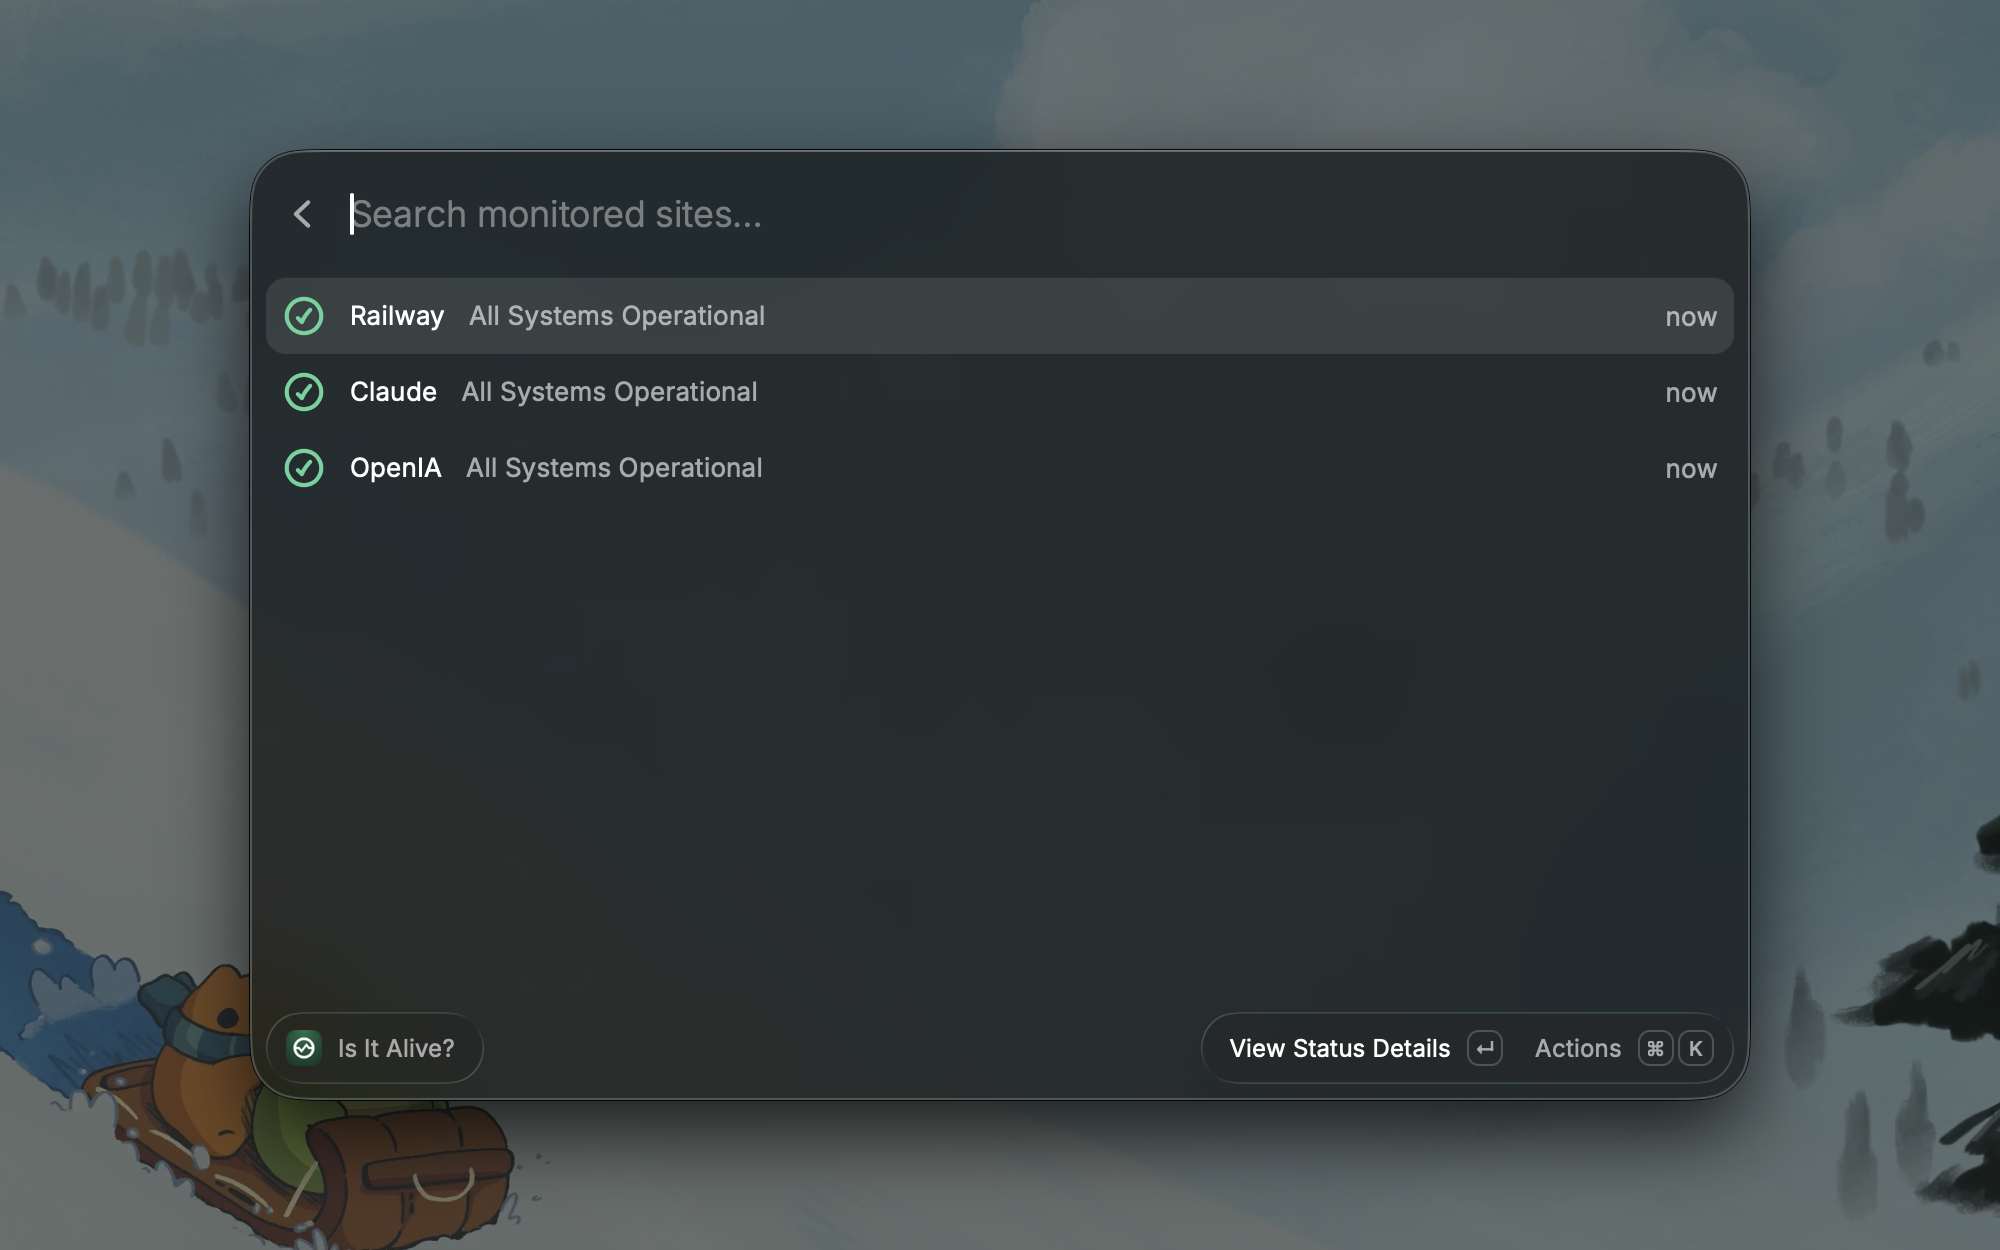
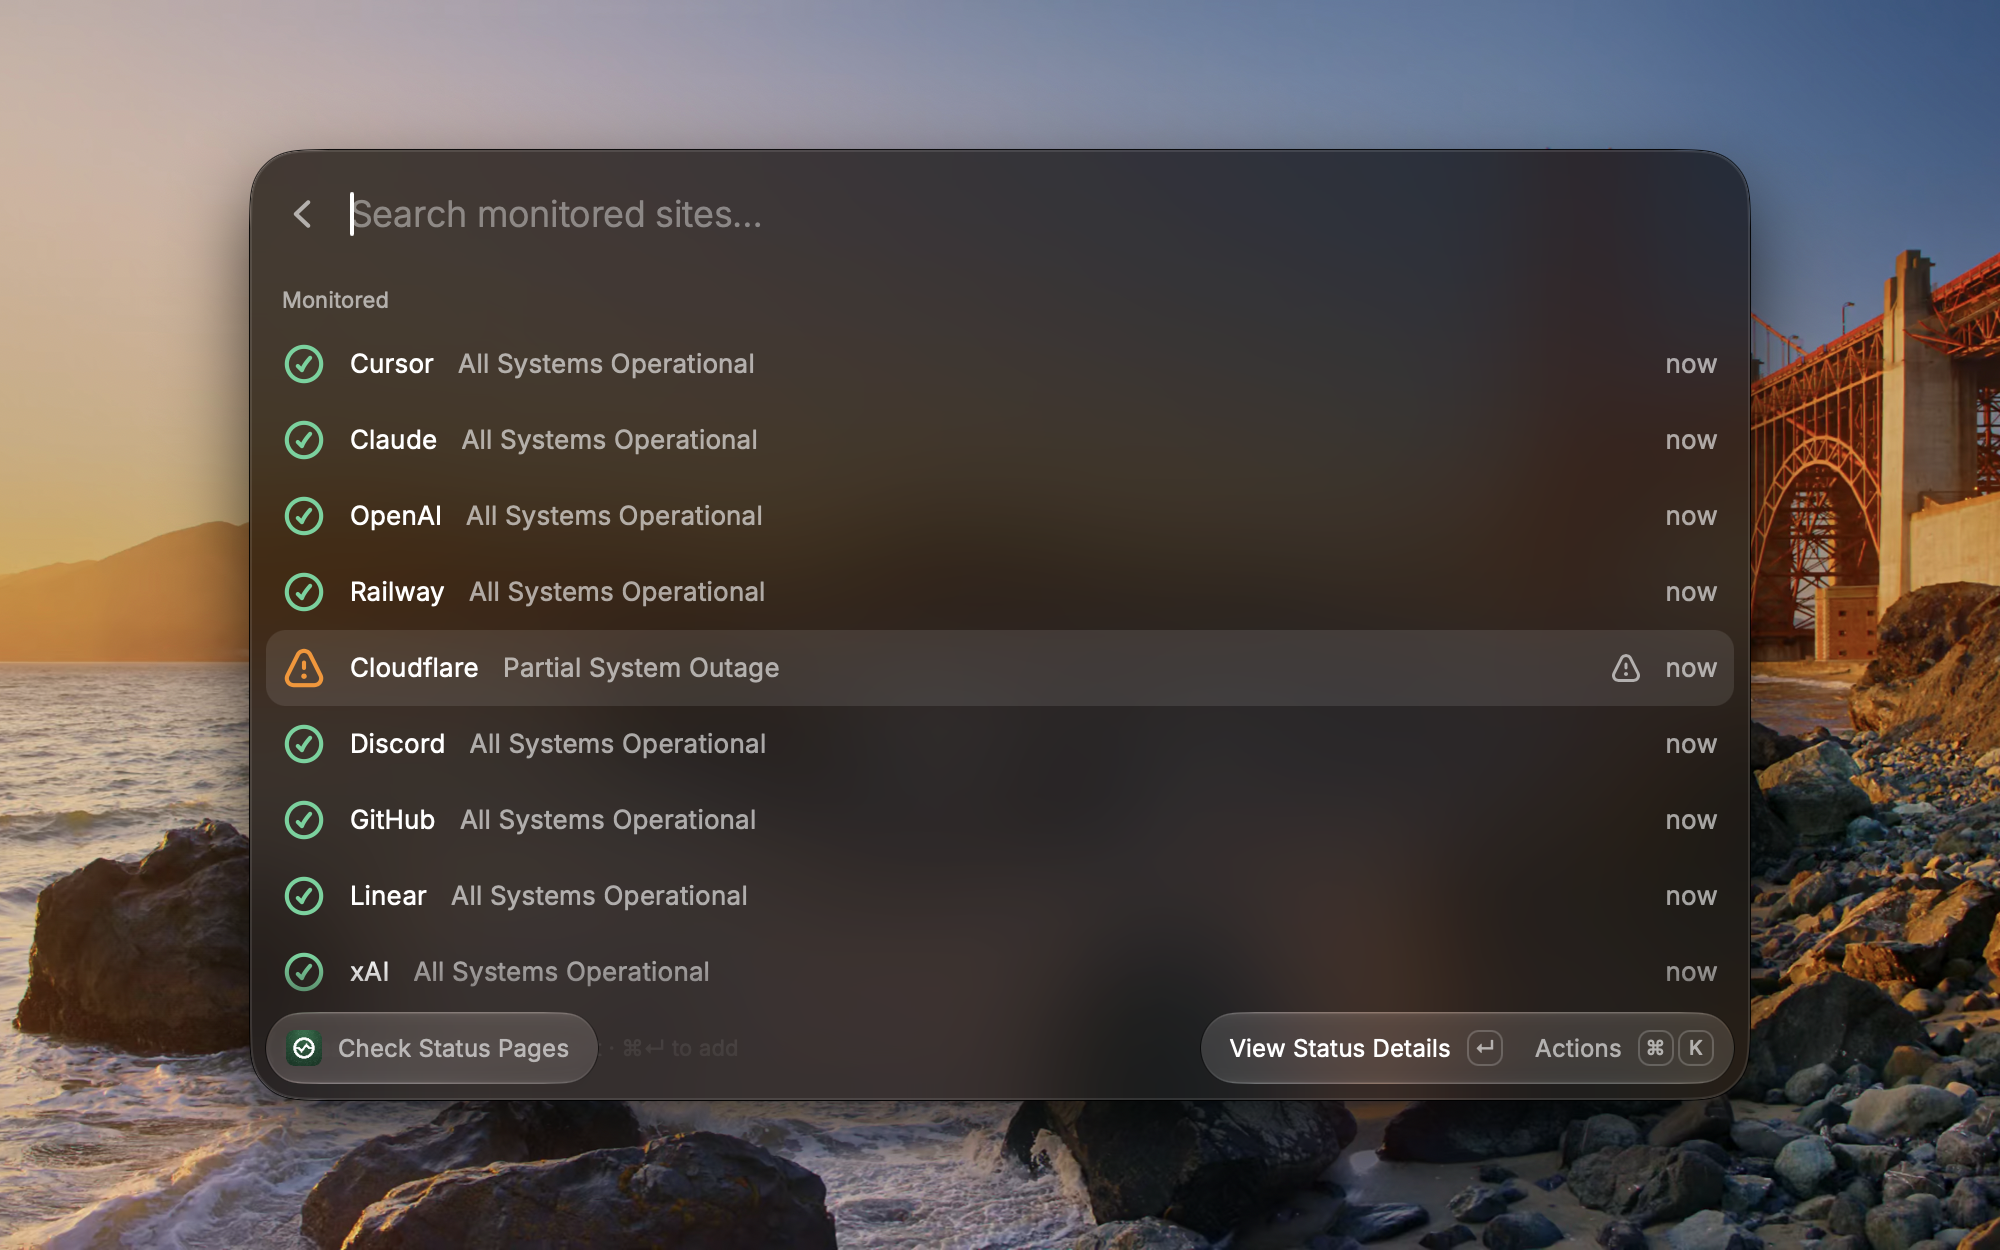
fix: end day spans before midnight and update the Store screenshots
- Treat the end of a day span as exclusive. An outage that ends at local midnight no longer marks the next day.
- Recapture the Store screenshots with one background.
- Point the README images back to metadata/ and remove the media/ copies.

diff --git a/tests/day-history.test.ts b/tests/day-history.test.ts
@@ -1,0 +1,40 @@
+import { afterEach, describe, expect, it, vi } from "vitest";
+
+import { buildDayHistory } from "@/lib/day-history";
+
+afterEach(() => {
+  vi.useRealTimers();
+});
+
+function localDate(day: number, hours = 0): Date {
+  return new Date(2026, 9, day, hours);
+}
+
+function affectedDays(spans: Parameters<typeof buildDayHistory>[0]) {
+  return buildDayHistory(spans, 10)
+    .filter((day) => day.level !== "operational")
+    .map((day) => day.date);
+}
+
+describe("buildDayHistory", () => {
+  it("does not mark the next day when an outage ends at midnight", () => {
+    vi.useFakeTimers({ now: localDate(20, 12), toFake: ["Date"] });
+
+    expect(
+      affectedDays([
+        { start: localDate(14, 22), end: localDate(15), level: "major" },
+      ]),
+    ).toEqual(["2026-10-14"]);
+  });
+
+  it("marks every day an outage touches", () => {
+    vi.useFakeTimers({ now: localDate(20, 12), toFake: ["Date"] });
+
+    expect(
+      affectedDays([
+        { start: localDate(14, 22), end: localDate(15, 1), level: "major" },
+        { start: localDate(17, 9), end: localDate(17, 9), level: "degraded" },
+      ]),
+    ).toEqual(["2026-10-14", "2026-10-15", "2026-10-17"]);
+  });
+});

diff --git a/src/lib/day-history.ts b/src/lib/day-history.ts
@@ -52,7 +52,10 @@ export function buildDayHistory(
 
   for (const span of spans) {
     const cursor = startOfLocalDay(span.start);
-    const end = startOfLocalDay(span.end);
+    // The end is exclusive: a span that ends at midnight does not touch the next day.
+    const end = startOfLocalDay(
+      new Date(Math.max(span.start.getTime(), span.end.getTime() - 1)),
+    );
 
     while (cursor <= end) {
       const key = formatLocalDate(cursor);

diff --git a/README.md b/README.md
@@ -15,7 +15,7 @@
 ## Screenshots
 
 <p align="center">
-  <img src="media/is-it-alive-1.png" alt="Monitored sites list with live status" width="720" />
+  <img src="metadata/is-it-alive-1.png" alt="Monitored sites list with live status" width="720" />
 </p>
 
 <p align="center">
@@ -23,7 +23,7 @@
 </p>
 
 <p align="center">
-  <img src="media/is-it-alive-2.png" alt="Status detail view with 90-day uptime charts" width="720" />
+  <img src="metadata/is-it-alive-2.png" alt="Status detail view with 90-day uptime charts" width="720" />
 </p>
 
 <p align="center">
